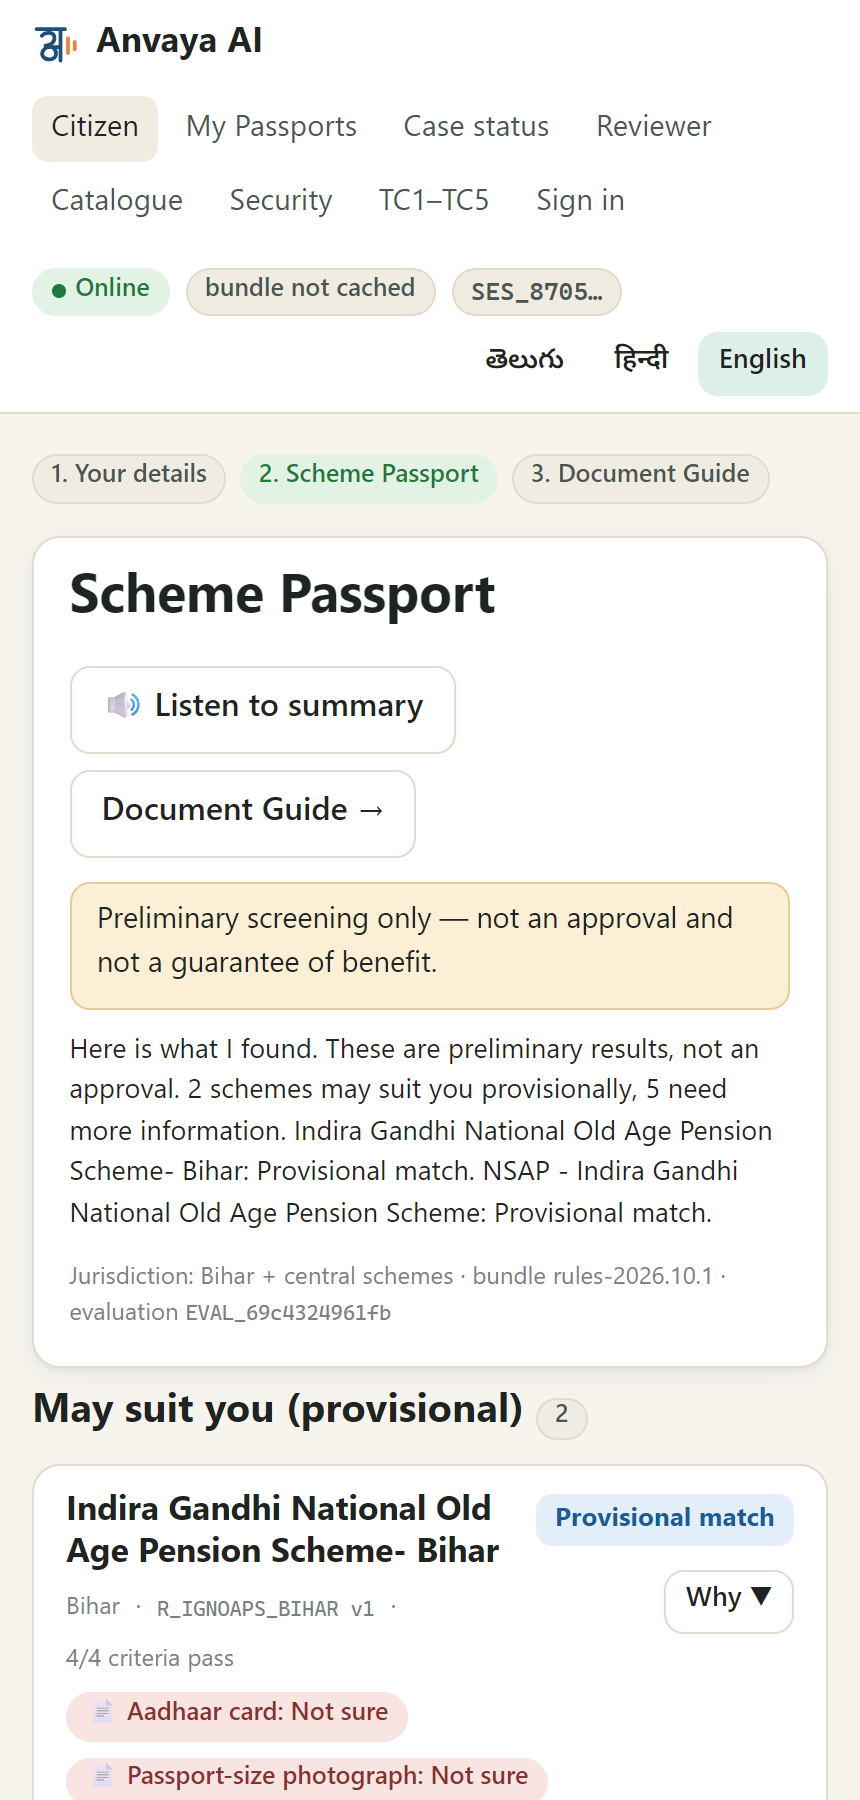
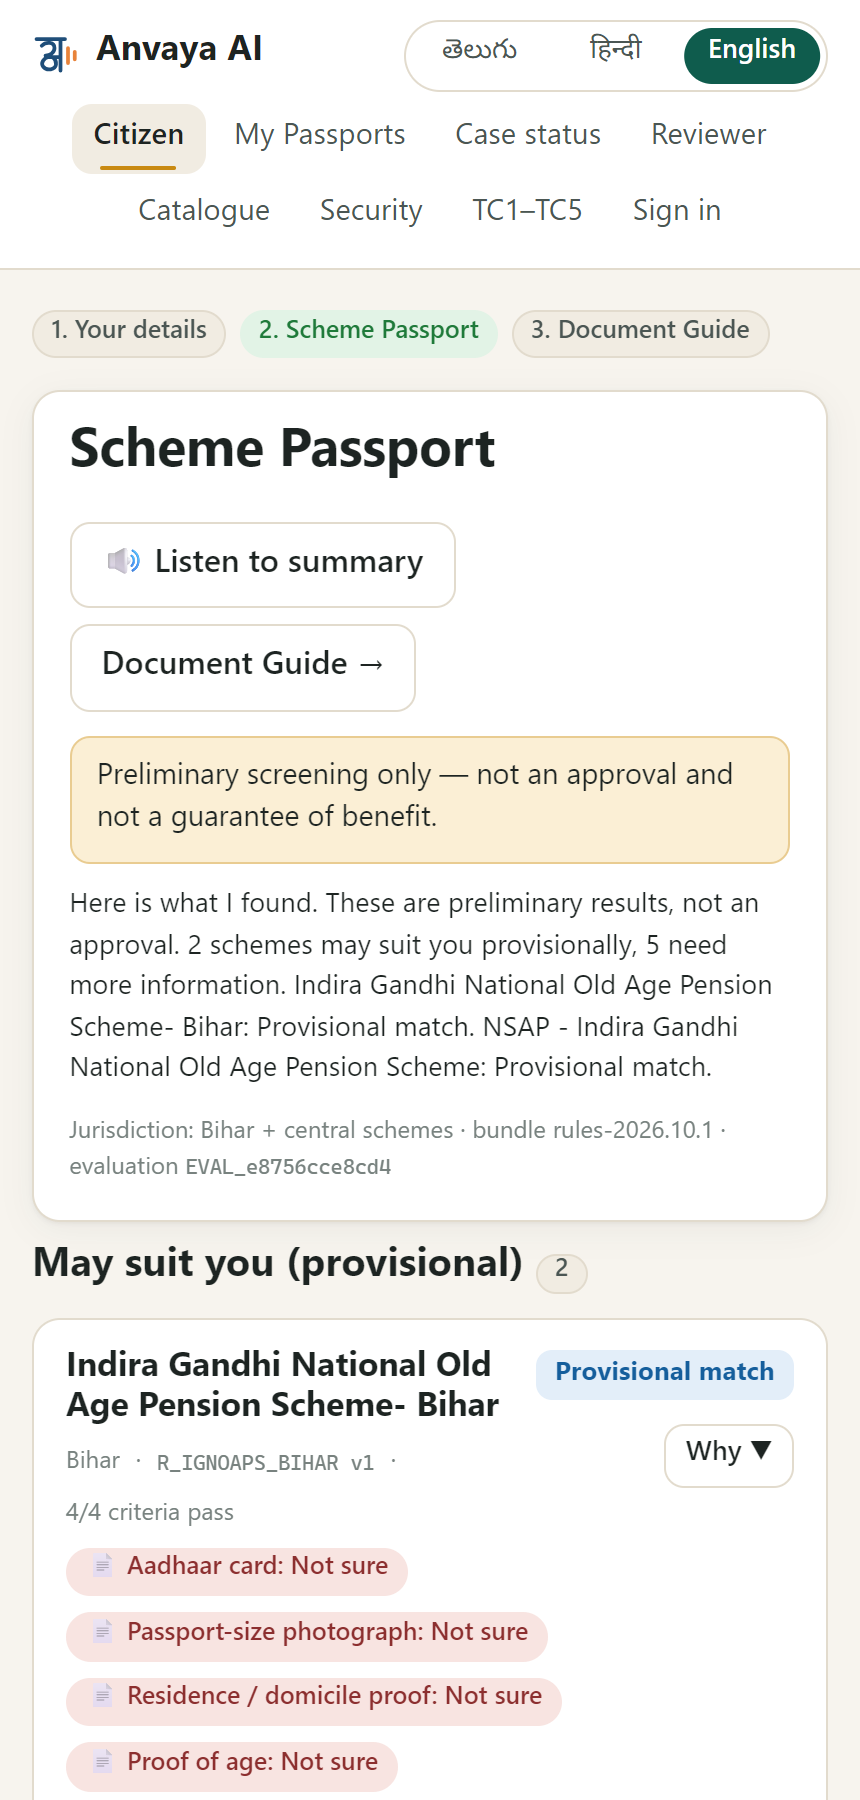
Frontend: English by default, centred animated header, clean landing, page transitions
- Default site language is English (was Telugu)
- Header: navigation centred on every page with an underline that grows under the current tab; language switch is a
  pill that slides to the chosen language
- The Online / bundle chips no longer appear on the landing page (or any public page); the status bar shows only at a
  kiosk, when offline, or while the kiosk outbox has events
- Pages fade in on route change; narrow cards are centred; reduced-motion respected
- README screenshots retaken

diff --git a/frontend/src/styles.css b/frontend/src/styles.css
@@ -57,17 +57,36 @@ p { margin: 0 0 .75rem; }
 
 /* layout */
 .topbar { position: sticky; top: 0; z-index: 10; background: var(--surface); border-bottom: 1px solid var(--line); }
-.topbar-inner { max-width: 1120px; margin: 0 auto; padding: .6rem 16px; display: flex; align-items: center; gap: .75rem; flex-wrap: wrap; }
-.brand { display: flex; align-items: center; gap: .5rem; font-weight: 700; text-decoration: none; color: var(--ink); font-size: 1.1rem; }
+.topbar-inner { max-width: 1120px; margin: 0 auto; padding: .6rem 16px; display: grid; grid-template-columns: 1fr auto 1fr; align-items: center; gap: .75rem; }
+.brand { display: flex; align-items: center; gap: .5rem; font-weight: 700; text-decoration: none; color: var(--ink); font-size: 1.1rem; justify-self: start; }
 .brand img { width: 28px; height: 28px; flex: none; transform: translateY(-1px); /* optical alignment with the wordmark */ }
 .brand .brand-mark.dark { display: none; }
 @media (prefers-color-scheme: dark) { :root:not([data-theme="light"]) .brand .brand-mark.light { display: none; } :root:not([data-theme="light"]) .brand .brand-mark.dark { display: block; } }
 :root[data-theme="dark"] .brand .brand-mark.light { display: none; }
 :root[data-theme="dark"] .brand .brand-mark.dark { display: block; }
 @media (max-width: 640px) { .brand img { width: 24px; height: 24px; } }
-.nav { display: flex; gap: .25rem; flex-wrap: wrap; margin-left: auto; }
-.nav a { text-decoration: none; color: var(--ink-2); padding: .35rem .6rem; border-radius: 8px; font-size: .92rem; }
-.nav a.active, .nav a:hover { background: var(--surface-2); color: var(--ink); }
+/* Centered navigation: each tab grows an underline from its middle on hover and stays under the current page. */
+.nav { display: flex; gap: .15rem; flex-wrap: wrap; justify-content: center; justify-self: center; }
+.nav a { position: relative; text-decoration: none; color: var(--ink-2); padding: .4rem .7rem; border-radius: 10px; font-size: .92rem; transition: color .2s ease, background-color .2s ease, transform .2s ease; }
+.nav a::after { content: ""; position: absolute; left: 50%; bottom: 2px; height: 2px; width: 0; border-radius: 2px; background: var(--accent); transform: translateX(-50%); transition: width .28s cubic-bezier(.2, .8, .2, 1); }
+.nav a:hover { color: var(--ink); background: var(--surface-2); transform: translateY(-1px); }
+.nav a.active { color: var(--ink); background: var(--surface-2); font-weight: 600; }
+.nav a:hover::after, .nav a.active::after { width: 56%; }
+/* Language switch: a pill that slides under the chosen language. */
+.lang-switch { position: relative; display: inline-grid; grid-template-columns: repeat(var(--n), 1fr); justify-self: end; padding: 3px; border: 1px solid var(--line); border-radius: 999px; background: var(--surface); }
+.lang-switch button { position: relative; z-index: 1; display: flex; align-items: center; justify-content: center; min-height: 28px; line-height: 1.2; border: 0; background: none; color: var(--ink-2); font: inherit; font-size: .85rem; padding: .2rem .75rem; border-radius: 999px; cursor: pointer; white-space: nowrap; transition: color .2s ease; }
+.lang-switch button[aria-pressed="true"] { color: var(--primary-ink); font-weight: 600; }
+.lang-thumb { position: absolute; z-index: 0; top: 3px; bottom: 3px; left: 3px; width: calc((100% - 6px) / var(--n)); border-radius: 999px; background: var(--primary); transform: translateX(calc(var(--i) * 100%)); transition: transform .32s cubic-bezier(.2, .8, .2, 1); }
+@media (max-width: 860px) {
+  .topbar-inner { grid-template-columns: 1fr auto; row-gap: .4rem; }
+  .nav { grid-column: 1 / -1; grid-row: 2; }
+}
+/* Content sits in the centre of the page. */
+.page-enter > .card, .page-enter > .signin, .page-enter > .stack, .page-enter .card[style*="max-width"] { margin-left: auto; margin-right: auto; }
+/* Page change: the new page eases in. */
+.page-enter { animation: page-enter .38s cubic-bezier(.2, .8, .2, 1) both; }
+@keyframes page-enter { from { opacity: 0; transform: translateY(10px); } to { opacity: 1; transform: none; } }
+@media (prefers-reduced-motion: reduce) { .page-enter { animation: none; } .nav a, .nav a::after, .lang-thumb { transition: none; } .nav a:hover { transform: none; } }
 .statusbar { max-width: 1120px; margin: 0 auto; padding: .35rem 16px .5rem; display: flex; gap: .5rem; flex-wrap: wrap; align-items: center; font-size: .8rem; color: var(--ink-2); }
 main { max-width: 1120px; margin: 0 auto; padding: 1.25rem 16px 4rem; }
 .grid { display: grid; gap: 1rem; }

diff --git a/frontend/src/App.tsx b/frontend/src/App.tsx
@@ -21,8 +21,10 @@ import SignIn from "./pages/SignIn";
 import TestRuns from "./pages/TestRuns";
 import { useApp } from "./state";
 
+/** Connection and offline-bundle details. Shown only where they matter: at a kiosk, when the connection is down, or
+ *  while kiosk events wait in the outbox. Public pages (the landing page above all) stay uncluttered. */
 function StatusBar() {
-  const { online, simulateOffline, setSimulateOffline, lang, setLang, mode, sessionId } = useApp();
+  const { online, simulateOffline, setSimulateOffline, lang, mode } = useApp();
   const loc = useLocation();
   const [tick, setTick] = useState(0);
   useEffect(() => { const i = setInterval(() => setTick((x) => x + 1), 2000); return () => clearInterval(i); }, []);
@@ -30,25 +32,34 @@ function StatusBar() {
   const pending = getOutbox().filter((e) => e.sync.state !== "SYNCED").length;
   void tick;
   const staffPage = /^\/(reviewer|admin|test-runs)/.test(loc.pathname);
+  const kioskPage = mode === "kiosk" && !staffPage && loc.pathname !== "/";
+  if (loc.pathname === "/" || (!kioskPage && online && pending === 0)) return null;
   return (
     <div className="statusbar" role="status" aria-live="polite">
       <span className={`chip dot ${online ? "on" : "off"}`}>{online ? t("online", lang) : t("offline", lang)}</span>
-      {mode === "kiosk" && !staffPage && (
-        <label className="row small" style={{ gap: ".3rem" }}>
-          <input type="checkbox" checked={simulateOffline} onChange={(e) => setSimulateOffline(e.target.checked)} /> simulate network loss
-        </label>
+      {kioskPage && (
+        <>
+          <label className="row small" style={{ gap: ".3rem" }}>
+            <input type="checkbox" checked={simulateOffline} onChange={(e) => setSimulateOffline(e.target.checked)} /> simulate network loss
+          </label>
+          <span className="chip">bundle {bundle ? `${bundle.bundle_version} · ${bundle.rules.length} rules · ${new Date(bundle.generated_at).toLocaleString()}` : "not cached"}</span>
+        </>
       )}
-      <span className="chip">bundle {bundle ? `${bundle.bundle_version} · ${bundle.rules.length} rules · ${new Date(bundle.generated_at).toLocaleString()}` : "not cached"}</span>
       {pending > 0 && <span className="chip s-SYNC_PENDING">outbox: {pending} SYNC_PENDING</span>}
-      {sessionId && !staffPage && mode !== "kiosk" && <span className="chip mono" title="Session">{sessionId.slice(0, 8)}…</span>}
-      {!staffPage && (
-        <span className="row" style={{ marginLeft: "auto", gap: ".25rem" }}>
-          {LANGS.map((l) => (
-            <button key={l.code} className="btn small ghost" aria-pressed={lang === l.code} onClick={() => setLang(l.code)}
-              style={lang === l.code ? { background: "var(--primary-soft)" } : undefined}>{l.name}</button>
-          ))}
-        </span>
-      )}
+    </div>
+  );
+}
+
+/** The site language: a segmented control whose highlight slides to the chosen language. */
+function LangSwitch() {
+  const { lang, setLang } = useApp();
+  const idx = Math.max(0, LANGS.findIndex((l) => l.code === lang));
+  return (
+    <div className="lang-switch" role="group" aria-label="Language" style={{ ["--i" as string]: idx, ["--n" as string]: LANGS.length }}>
+      <span className="lang-thumb" aria-hidden="true" />
+      {LANGS.map((l) => (
+        <button key={l.code} type="button" aria-pressed={lang === l.code} onClick={() => setLang(l.code)}>{l.name}</button>
+      ))}
     </div>
   );
 }
@@ -75,10 +86,12 @@ export default function App() {
             <NavLink to="/test-runs">TC1–TC5</NavLink>
             <NavLink to="/signin">Sign in</NavLink>
           </nav>
+          <LangSwitch />
         </div>
         <StatusBar />
       </header>
       <main className={loc.pathname === "/" ? "main-landing" : undefined}>
+        <div key={loc.pathname.startsWith("/reviewer/case") ? "/reviewer/case" : loc.pathname} className="page-enter">
         <Routes>
           <Route path="/" element={<Landing />} />
           <Route path="/citizen" element={<Journey mode="personal" />} />
@@ -100,6 +113,7 @@ export default function App() {
           <Route path="/profile" element={<Profile />} />
           <Route path="*" element={<div className="card">Page not found.</div>} />
         </Routes>
+        </div>
       </main>
       <KioskIdleGuard />
     </>

diff --git a/frontend/src/state.tsx b/frontend/src/state.tsx
@@ -60,7 +60,7 @@ export function initialSessionId(mode: Mode): string | null {
 }
 
 export function AppProvider({ children }: { children: ReactNode }) {
-  const [lang, setLangS] = useState<Lang>((ss.get("anvaya.lang") as Lang) || "te");
+  const [lang, setLangS] = useState<Lang>((ss.get("anvaya.lang") as Lang) || "en");
   const [mode, setModeS] = useState<Mode>((ss.get("anvaya.mode") as Mode) || "personal");
   const [sessionId, setSid] = useState<string | null>(() => initialSessionId((ss.get("anvaya.mode") as Mode) || "personal"));
   const [sessionExpiresAt, setExpires] = useState<string | null>(null);

diff --git a/README.md b/README.md
@@ -52,7 +52,7 @@ live monitoring stack. Rules, text and numbers on screen are what the app produc
 | Landing: a headline that rotates through Hinglish, Hindi, English and Telugu, with a live demo | Sign in: no account needed; verified options are visible and honest |
 |---|---|
 | ![Landing, desktop](docs/screenshots/01d-landing-desktop.png) | ![Sign in](docs/screenshots/18d-signin-desktop.png) |
-| One tap on the microphone starts a conversation. The demo card plays a Telugu / Hinglish exchange; below it the page explains how it works and races a seven-step portal against one sentence. Kiosk, case status, *Resume with Passport code* and *My Passports* sit under the microphone. | *Continue without account* is the main path. **Meri Pehchaan (DigiLocker)** and **phone OTP** show as "Coming soon" until they are switched on (`GET /api/config`); a disabled option never fires a request. At a kiosk, verified and phone sign-in are never offered. |
+| One tap on the microphone starts a conversation. The demo card plays a Telugu / Hinglish exchange; below it the page explains how it works and races a seven-step portal against one sentence. Kiosk, case status, *Resume with Passport code* and *My Passports* sit under the microphone. The site opens in **English** by default; the language switch in the header (a pill that slides to the chosen language) changes it. The header navigation is centred on every page, with an underline that grows under the current tab and a short fade-in when the page changes (both switched off for visitors who prefer reduced motion). Connection and offline-bundle details appear only at a kiosk, when the connection is down, or while kiosk events wait to sync, never on the landing page. | *Continue without account* is the main path. **Meri Pehchaan (DigiLocker)** and **phone OTP** show as "Coming soon" until they are switched on (`GET /api/config`); a disabled option never fires a request. At a kiosk, verified and phone sign-in are never offered. |
 
 | Landing on a phone | How it works | Seven steps, or one sentence |
 |---|---|---|
